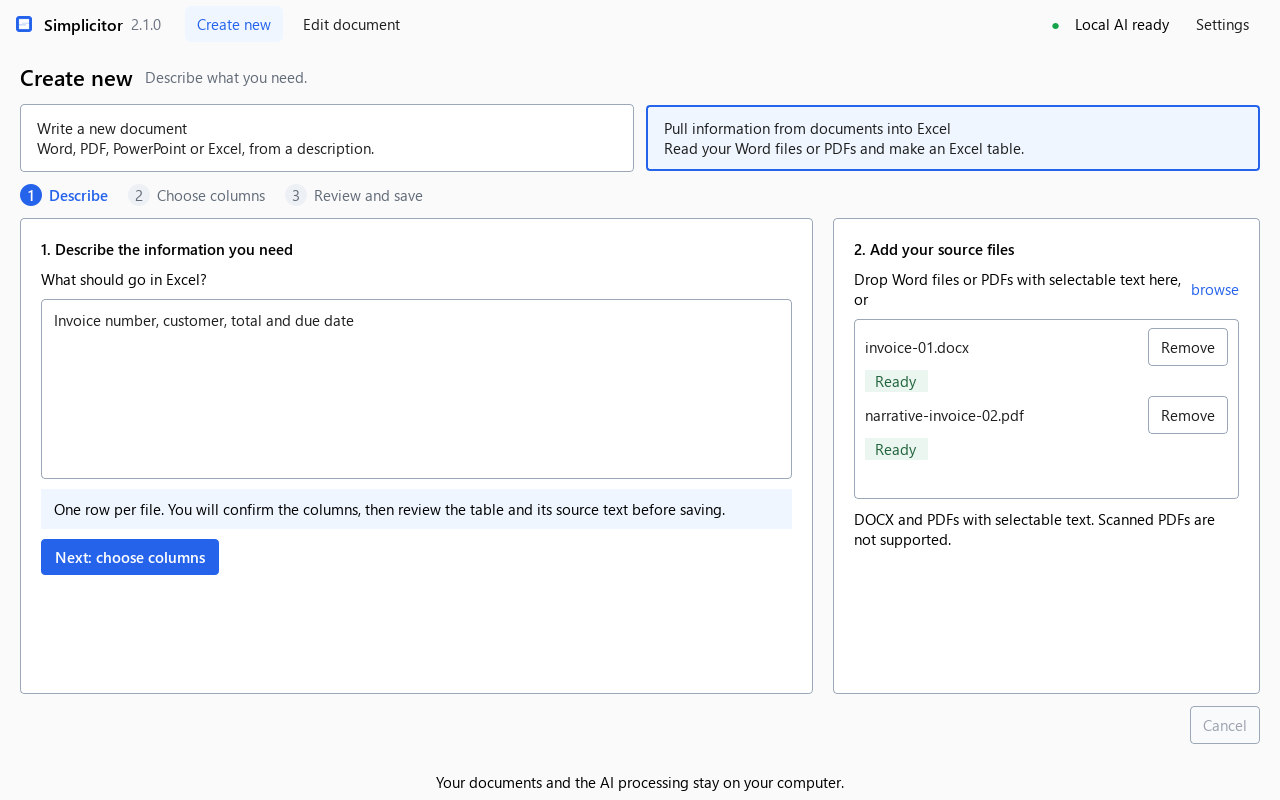
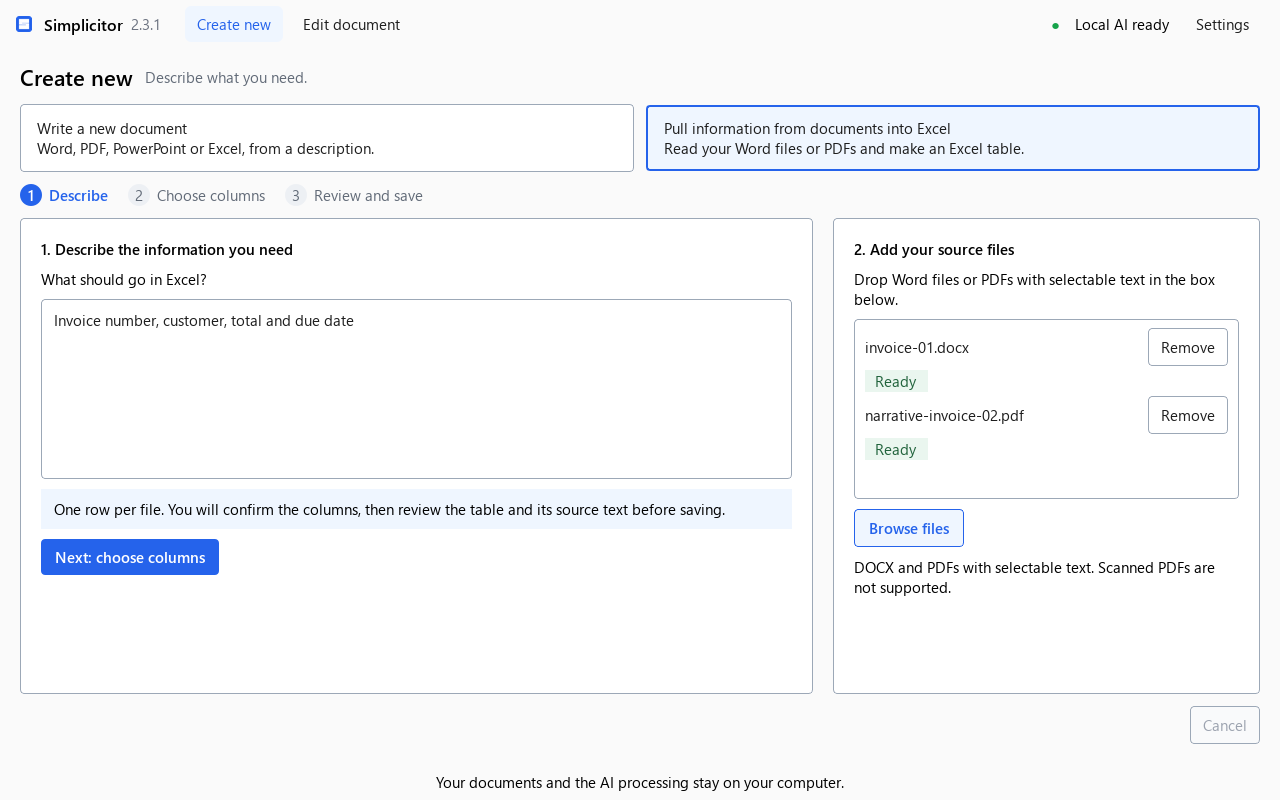
docs: 2.3.1 version, README, status and release notes

Changed region(s): [[0.6562, 0.625, 0.9375, 0.75], [0.9062, 0.3438, 0.9688, 0.375]]

diff --git a/simplicitor/app/version.py b/simplicitor/app/version.py
@@ -1,3 +1,3 @@
 # simplicitor/app/version.py
 """The product version. The window title, top bar, Settings and build.py read it."""
-__version__ = "2.3.0"
+__version__ = "2.3.1"

diff --git a/docs/PROJECT_STATUS.md b/docs/PROJECT_STATUS.md
@@ -1,6 +1,6 @@
 # Simplicitor project status
 
-Updated 2026-10-13 after v2.3.0 publication and verification as Latest. [PRD.md](../PRD.md) owns requirements; [architecture](superpowers/specs/2026-10-08-document-architecture-design.md), [UI design](superpowers/specs/2026-10-08-document-workspace-ui-design.md), [Edit for Word design](superpowers/specs/2026-10-13-edit-for-word-design.md) and the [2.3.0 plan](superpowers/plans/2026-10-13-release-2.3.0.md) are the current review set. The [2.2.0 plan](superpowers/plans/2026-10-12-release-2.2.0.md) retains the B3 drop, completed B5 and unexecuted B4; earlier plans retain their execution records.
+Updated 2026-10-14 for 2.3.1 release preparation. v2.3.0 remains the published Latest release. [PRD.md](../PRD.md) owns requirements; [architecture](superpowers/specs/2026-10-08-document-architecture-design.md), [UI design](superpowers/specs/2026-10-08-document-workspace-ui-design.md), [Edit for Word design](superpowers/specs/2026-10-13-edit-for-word-design.md) and the [2.3.0 plan](superpowers/plans/2026-10-13-release-2.3.0.md) are the current review set. The [2.2.0 plan](superpowers/plans/2026-10-12-release-2.2.0.md) retains the B3 drop, completed B5 and unexecuted B4; earlier plans retain their execution records.
 
 ## Current status
 
@@ -23,6 +23,7 @@ Updated 2026-10-13 after v2.3.0 publication and verification as Latest. [PRD.md]
 | 2.3.0 Part C2 | The one-off Word check passed on 2026-10-13 from source 82311a7: sample builder and Word script both exited 0, and all six samples opened read-only in Word 16.0 build 16.0.20326. Sample SHA-256 hashes and exact result lines are in the [Word record](builds/2.3.0-word-check.json). The generated TEMP folder was deleted; no new Word process remains and both pre-existing Word processes were preserved. |
 | 2.3.0 D1 | Complete: product version 2.3.0, requirements, specs, implemented design status, README and [release notes](releases/v2.3.0-notes.md) are prepared. The full isolated suite passed 1,290 tests in 107.24 seconds, with the existing cache-permission warning; [source push tests](https://github.com/alexnosx/Simplicitor/actions/runs/38449455335) passed 1,290. The [milestone build](https://github.com/alexnosx/Simplicitor/actions/runs/38450083098) passed on `520aca33d19c0b3c9155a6975135f44b20672272`: 1,290 hosted tests and all 58 MSI qualification checks, MSI 61,437,817 bytes, executable 2.3.0.0 and upgrade probe 2.3.1. Downloaded hashes match the manifest and qualification report; [build record](builds/2.3.0-ci.json). Milestone publication was skipped; D2 publication is recorded below. |
 | 2.3.0 D2 | Published from Alex's approved tagged commit e4060c55426598a3d973922f87b2831053173814. The [tag workflow](https://github.com/alexnosx/Simplicitor/actions/runs/38457303474) passed 1,290 source tests, rebuild, all 58 MSI qualification checks and publication. Latest status, exactly three assets, downloaded hashes against the manifest/GitHub digests and the body against tagged notes are verified in the [release record](releases/v2.3.0.json). No release payload was extracted or run locally. |
+| 2.3.1 | Tasks 1-3 are complete and accepted after Claude's review: painted Edit drop outline and Browse files directly below Pull's source box, with the existing handlers and gates. Source commits `52485a5` and `68b0f49`; [hosted source tests](https://github.com/alexnosx/Simplicitor/actions/runs/38615116576) passed 1,294. Task 4 prepares version 2.3.1, the refreshed README capture and [release notes](releases/v2.3.1-notes.md). The version-change isolated suite passed 1,294 tests in 90.72 seconds on its first run, with the existing cache warning; captures show 2.3.1 and Browse files below the box. Hosted milestone qualification is pending. Task 5 requires Alex's separate go; 2.3.1 is unreleased. |
 | Hosted test hang mitigation | Intermittent hangs in [run 38429126493](https://github.com/alexnosx/Simplicitor/actions/runs/38429126493) and [run 38431107034](https://github.com/alexnosx/Simplicitor/actions/runs/38431107034) are mitigated by disabling automatic cyclic garbage collection and collecting on the main thread after each test; the isolated local suite passed 1,256 tests in 90.79 seconds, and the mitigation's effect will be judged on future hosted runs. |
 | Prompt creation and templates | Word, Excel and PowerPoint generation remain available. PDF uses the existing Word response structure and Qt writer with staged validation. PowerPoint's picker offers built-in templates only; generation and developer CLI import remain available. Alex reports that PDF generation from a prompt and click-through of the new screens passed from source. |
 | Create and Edit modes | Create new offers Write a new document and Pull information from documents into Excel, retaining separate inputs. Pull advances through columns/review and always produces XLSX; Write sends no sources. File rows and actions show progress. Edit document offers selective Word editing in source; legacy editing stays disabled. Settings/mode/route switching freeze during work. |
@@ -128,6 +129,6 @@ CPU/OS facts came from registry reads and memory from the Windows API; CIM queri
 
 ## Next step
 
-2.3.0 is published and verified. The next implementation scope has not been selected.
+Complete Task 4's hosted milestone build and evidence. Task 5 tagging and publication require Alex's separate go.
 
 Input from Claude's review: in the app, ask to discard after the new file is picked, so cancelling the file picker keeps the current work.

diff --git a/REPO_MAP.md b/REPO_MAP.md
@@ -116,6 +116,7 @@ docs/
         v2.2.0.json
         v2.3.0-notes.md
         v2.3.0.json
+        v2.3.1-notes.md
     reviews/
         2026-10-09-release-2.1.0-codex-revision-2.md
         2026-10-09-release-2.1.0-codex.md
@@ -968,6 +969,7 @@ requirements.txt
 - class DocumentModel(QAbstractListModel): One display block per row; document content is data, never HTML.
 - class DocumentDelegate(QStyledItemDelegate): Paint only controlled text formats and table cells, without interpreting markup.
 - class DocumentView(QListView): Virtualized reader with explicit whole-paragraph clicks, including read-only notices.
+- class DropArea(QLabel): Drop target whose dashed outline is painted, so all four edges stay visible at any display scale.
 - class EditScreen(QWidget): Keep edit-session inputs and emit requests; workers own all document processing.
 
 ### simplicitor/app/widgets/file_list.py
@@ -1983,6 +1985,7 @@ requirements.txt
 - def test_absent_saved_value_is_not_reported_as_found(qtbot, isolated_profile, tmp_path)
 - def test_prompt_hint_follows_sources_then_file_type(qtbot, isolated_profile, tmp_path)
 - def test_reading_problems_start_with_a_truthful_heading(qtbot, isolated_profile, tmp_path)
+- def test_browse_sits_directly_under_the_source_box(qtbot, isolated_profile)
 
 ### tests/test_edit_screen.py
 
@@ -2010,6 +2013,7 @@ requirements.txt
 - def test_reading_view_keeps_word_line_breaks(screen)
 - def test_busy_blocks_drops_and_preserves_current_work(screen, qtbot)
 - def test_reading_progress_stays_in_the_open_step(screen)
+- def test_drop_zone_outline_is_visible_on_all_four_edges(qtbot, ratio)
 
 ### tests/test_edit_worker.py
 
@@ -2461,7 +2465,7 @@ requirements.txt
 - .gitignore: text, 84 lines
 - AGENTS.md: md, 52 lines
 - BUILD_STORY.md: md, 84 lines
-- CHANGELOG.md: md, 113 lines
+- CHANGELOG.md: md, 119 lines
 - CLAUDE.md: md, 1 lines
 - LICENSE: text, 21 lines
 - LICENSE_NOTICE.md: md, 11 lines
@@ -2478,7 +2482,7 @@ requirements.txt
 - assets/icons/simplicitor_512.png: png (binary)
 - assets/icons/simplicitor_64.png: png (binary)
 - build.bat: bat, 10 lines
-- docs/PROJECT_STATUS.md: md, 133 lines
+- docs/PROJECT_STATUS.md: md, 134 lines
 - docs/Simplicitor_BugFixes_and_Features.md: md, 81 lines
 - docs/Simplicitor_Implementation_Guide.md: md, 347 lines
 - docs/Simplicitor_PRD_v1.2.docx: docx (binary)
@@ -2524,6 +2528,7 @@ requirements.txt
 - docs/releases/v2.2.0.json: json, 152 lines
 - docs/releases/v2.3.0-notes.md: md, 32 lines
 - docs/releases/v2.3.0.json: json, 148 lines
+- docs/releases/v2.3.1-notes.md: md, 24 lines
 - docs/reviews/2026-10-09-release-2.1.0-codex-revision-2.md: md, 107 lines
 - docs/reviews/2026-10-09-release-2.1.0-codex.md: md, 50 lines
 - docs/reviews/2026-10-12-release-2.2.0-codex-revision-2.md: md, 93 lines
@@ -2546,7 +2551,7 @@ requirements.txt
 - docs/superpowers/plans/2026-10-09-release-2.1.0.md: md, 2743 lines
 - docs/superpowers/plans/2026-10-12-release-2.2.0.md: md, 4430 lines
 - docs/superpowers/plans/2026-10-13-release-2.3.0.md: md, 3738 lines
-- docs/superpowers/plans/2026-10-14-release-2.3.1.md: md, 336 lines
+- docs/superpowers/plans/2026-10-14-release-2.3.1.md: md, 310 lines
 - docs/superpowers/specs/2026-05-29-phase-h-renderer-design.md: md, 139 lines
 - docs/superpowers/specs/2026-06-01-phase-i-prompt-builder-design.md: md, 208 lines
 - docs/superpowers/specs/2026-06-02-phase-j-pipeline-design.md: md, 396 lines

diff --git a/docs/releases/v2.3.1-notes.md b/docs/releases/v2.3.1-notes.md
@@ -1,0 +1,24 @@
+# Simplicitor v2.3.1 release notes
+
+## What's fixed
+
+- **Edit document:** the area where you drop a Word file now shows its full dashed outline at every Windows display scale.
+- **Pull information from documents into Excel:** the Browse files button now sits directly under the box that lists your files.
+
+Your documents and the AI processing stay on your computer; nothing is uploaded.
+
+## Before you start
+
+- You need Windows and Ollama running locally with a downloaded model. We recommend a model with at least 8 billion parameters (8B+) and a GPU with 8 GB of video memory.
+- If you have Simplicitor 2.1.0, 2.2.0 or 2.3.0, the new installer replaces it; your settings and documents stay. If you installed 2.0.0 with Simplicitor-setup.exe, uninstall it from Settings > Apps first.
+- The installer is unsigned. Windows may show an unknown-publisher or security warning.
+
+## Downloads
+
+- `Simplicitor-2.3.1.msi`: installer.
+- `Simplicitor-portable.zip`: unpack and run without installing.
+- `SHA256SUMS.json`: file checksums for verifying the downloads.
+
+## License
+
+Simplicitor is licensed under the [MIT License](https://github.com/alexnosx/Simplicitor/blob/v2.3.1/LICENSE). Copyright (c) 2026 Alexandru Pop. Bundled libraries keep their own licenses and notices. A copy of the license is included in the program folder.

diff --git a/CHANGELOG.md b/CHANGELOG.md
@@ -1,5 +1,11 @@
 # Changelog
 
+## v2.3.1 (unreleased)
+
+- Paint the Edit drop area's dashed outline so all four edges stay visible at fractional display scales.
+- Place Pull's Browse files button directly under the source file box, with a wrapping hint and the existing picker, drop and busy behavior.
+- Refresh the README picture with version 2.3.1 and the new Browse files placement; update its build-output filename.
+
 ## v2.3.0, 2026-10-13
 
 Published as [v2.3.0](https://github.com/alexnosx/Simplicitor/releases/tag/v2.3.0) and verified as Latest with MSI, portable ZIP, checksums and the tagged release notes as its body. Verification: [docs/releases/v2.3.0.json](docs/releases/v2.3.0.json).

diff --git a/README.md b/README.md
@@ -41,7 +41,7 @@ dotnet tool restore
 .\.venv\Scripts\python.exe build.py
 ```
 
-Outputs in `dist`: `Simplicitor-2.3.0.msi`, `Simplicitor-portable.zip` and `SHA256SUMS.json`. The build creates the installer but does not run it. See [packaging](docs/code-signing.md) for details.
+Outputs in `dist`: `Simplicitor-2.3.1.msi`, `Simplicitor-portable.zip` and `SHA256SUMS.json`. The build creates the installer but does not run it. See [packaging](docs/code-signing.md) for details.
 
 ### Run from source without building
 
